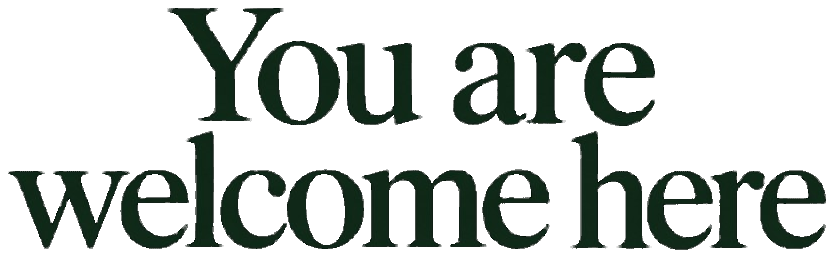
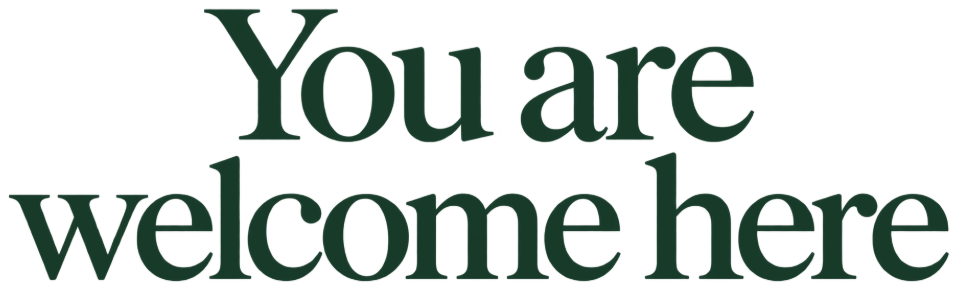
Use the new transparent welcome headline artwork as-is.

diff --git a/src/styles/global.css b/src/styles/global.css
@@ -3120,17 +3120,6 @@ html.scroll-reveal-enabled .scroll-reveal--delay-2 {
 .home-landing__title {
   margin: 0;
   max-width: 38rem;
-  font-family: theme('fontFamily.display');
-  font-weight: 600;
-  font-size: clamp(2.35rem, 1.6rem + 2.8vw, 3.75rem);
-  line-height: 1.05;
-  letter-spacing: -0.02em;
-  color: theme('colors.sage.dark');
-  text-align: center;
-}
-
-.home-landing__title-line {
-  display: block;
 }
 
 .home-landing__title-img {
